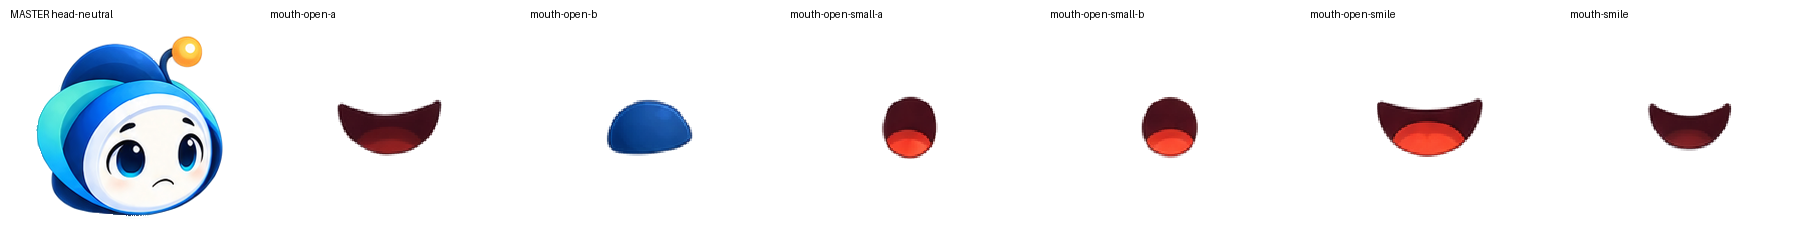
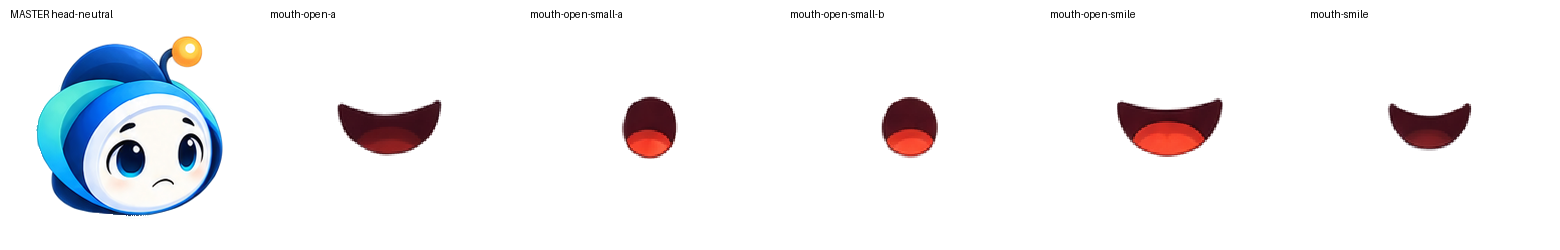
fix: quarantine misclassified blue mouth candidate

diff --git a/assets/characters/one/qa-viewer/HEAD_NEUTRAL_MAPPING.md b/assets/characters/one/qa-viewer/HEAD_NEUTRAL_MAPPING.md
@@ -9,7 +9,8 @@ Do not reconstruct by approximation. Existing production candidates confirmed by
 - hood: 6 variants
 - antenna: 5 variants
 - open eyes: 5 variants
-- mouths: 6 variants
+- mouths: 5 visually coherent variants
+- unclassified: 1 blue piece formerly mislabeled as `mouth-open-b`; removed from mouths without pixel changes; correct category pending
 - head-neutral target: 186×184 RGBA
 
 The exact neutral correspondence is still pending. Facial plate and neutral eyebrows are not yet represented as independently mapped production layers.

diff --git a/assets/characters/one/source/raster/components/unclassified/README.md b/assets/characters/one/source/raster/components/unclassified/README.md
@@ -1,0 +1,5 @@
+# Unclassified ONE raster components
+
+Pieces preserved without semantic promotion when visual evidence proves their current category is wrong but does not yet prove the correct destination.
+
+- `blue-piece-a.png`: formerly `mouths/mouth-open-b.png`. User visual review confirmed it is not a mouth. Pixels are unchanged. Correct semantic category remains pending visual evidence.
